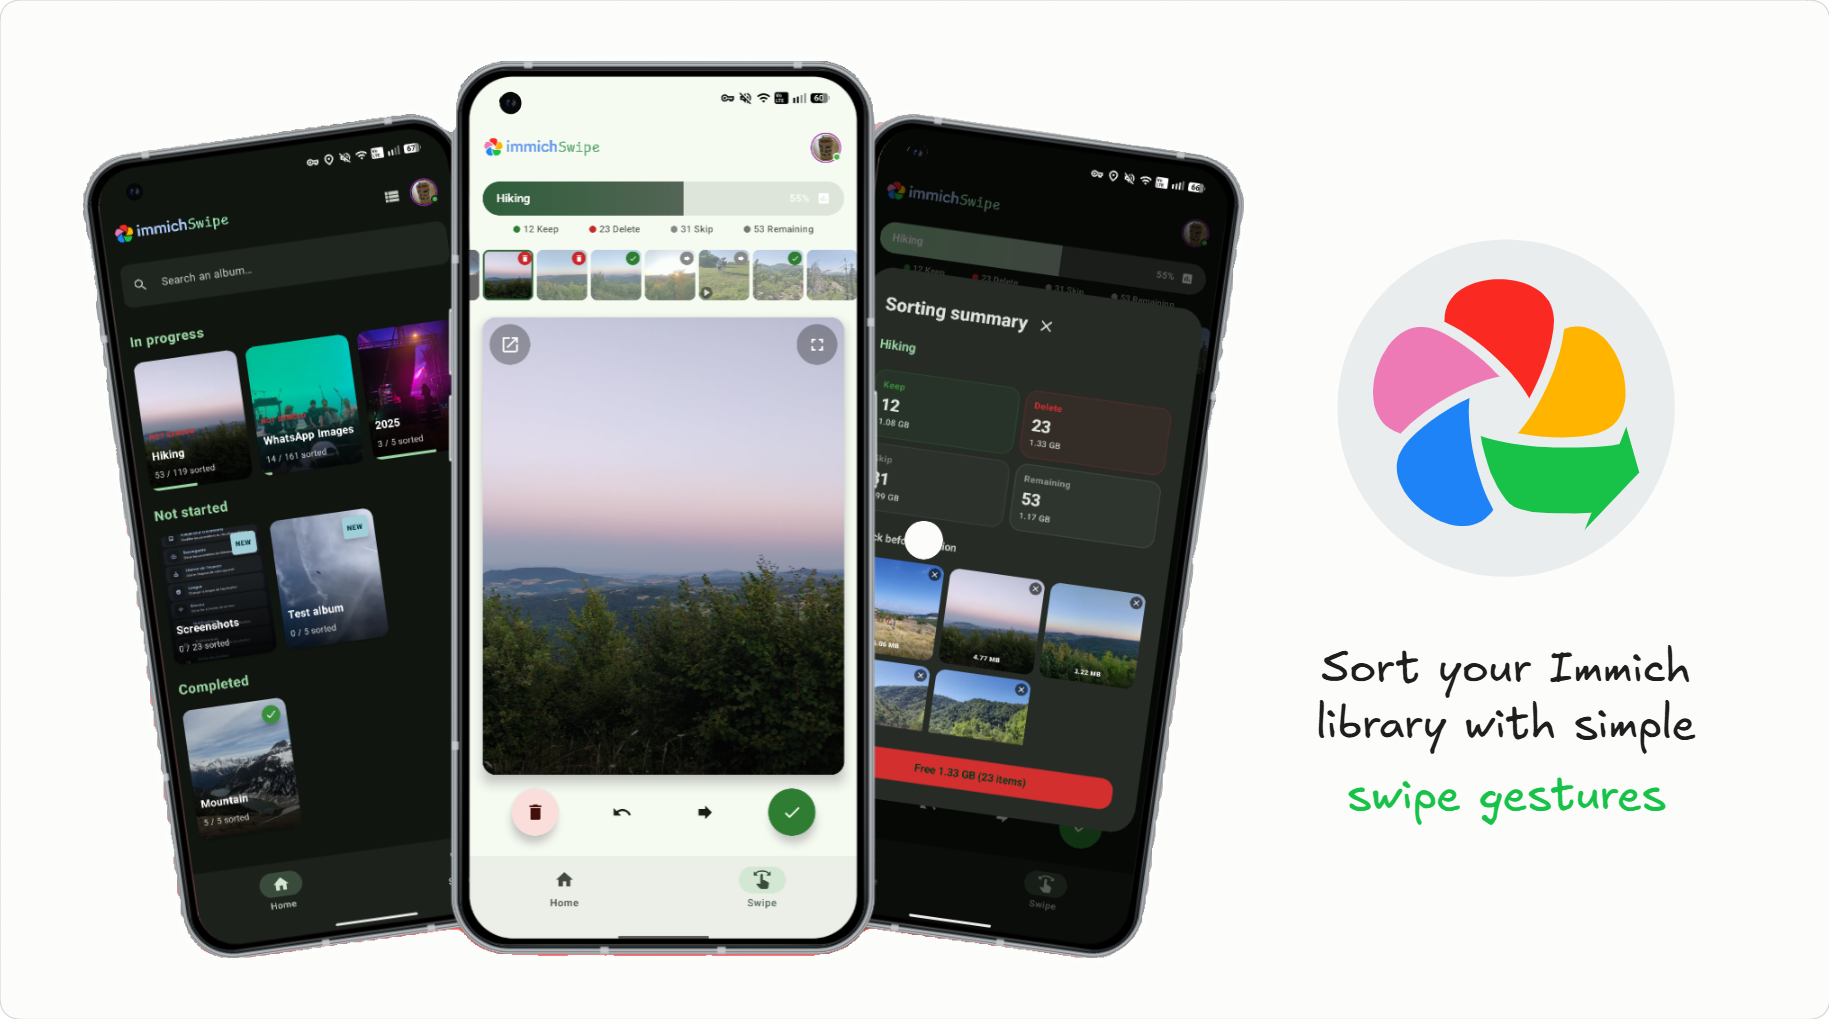
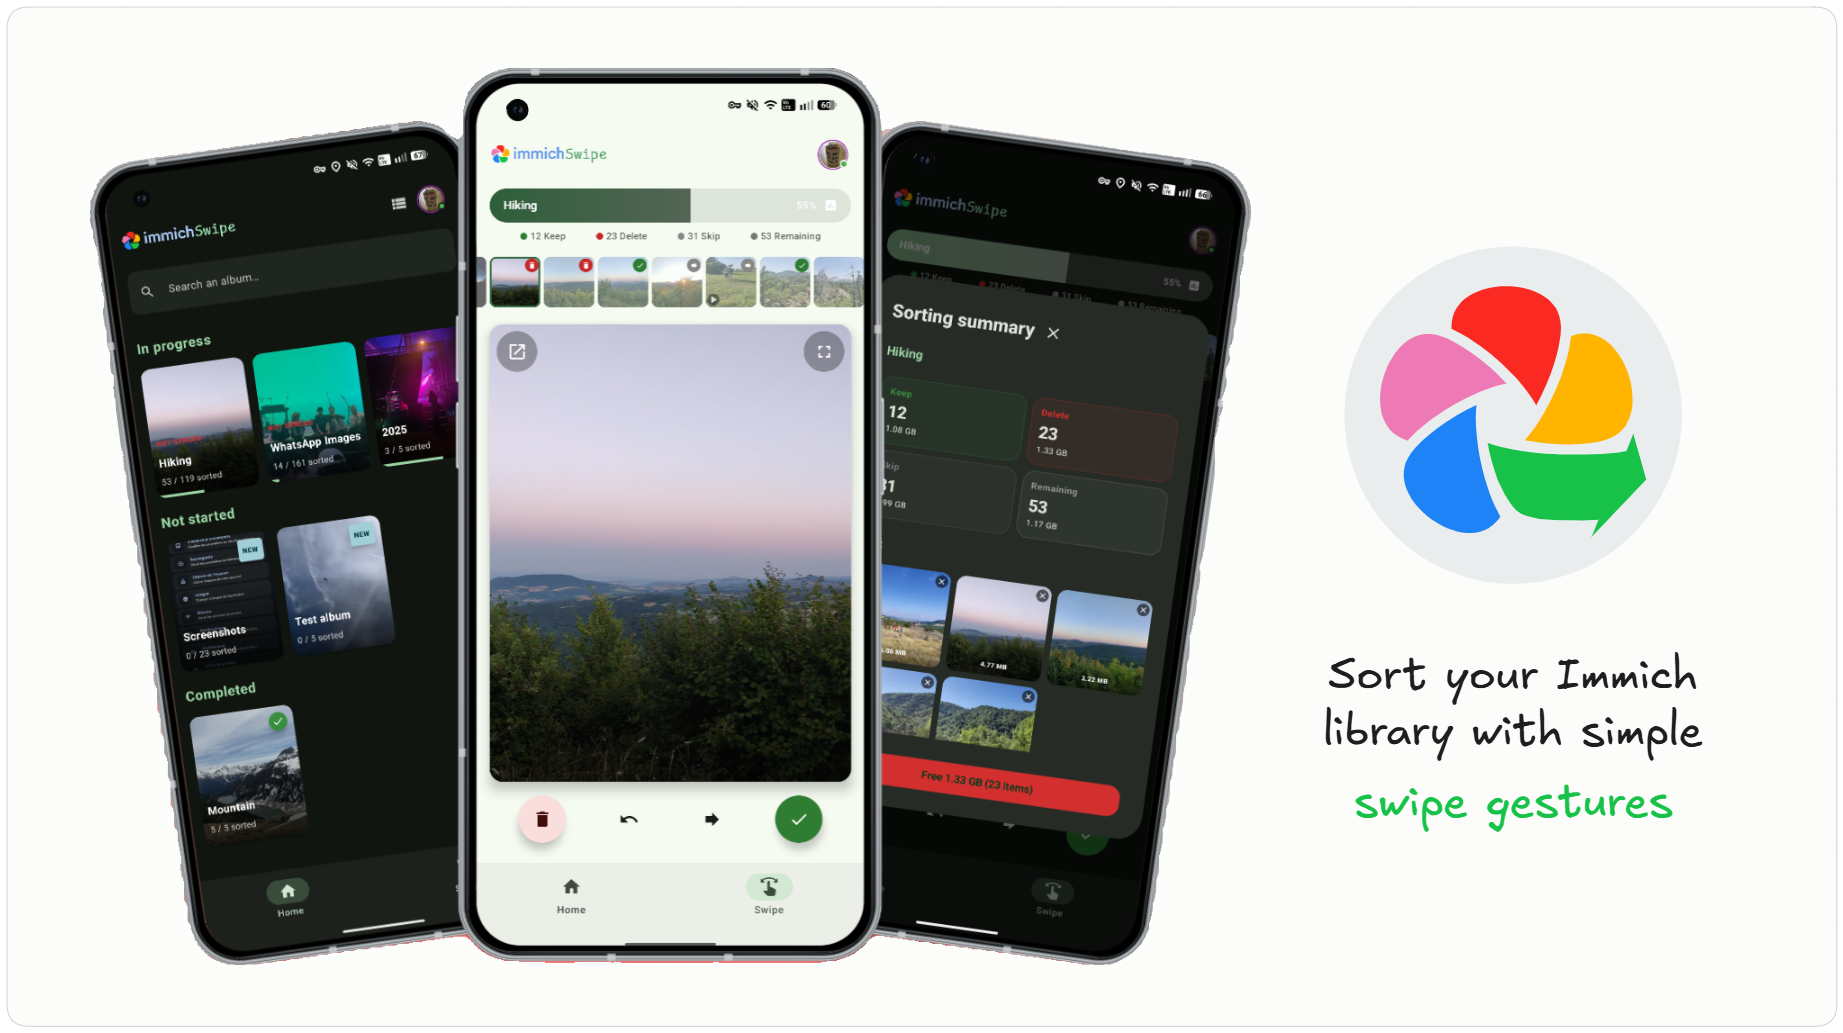
Mise à jour des READMEs concernant les permission API (+ lien vers Sponge)

diff --git a/README.fr.md b/README.fr.md
@@ -9,7 +9,7 @@
 
 Immich Swipe est une application Android open-source conçue pour faciliter le tri de vos photos et vidéos hébergées sur votre serveur [Immich](https://immich.app/).
 
-Inspirée par l'application [Sponge](https://get-sponge.com/) (concept similaire pour les fichiers locaux), elle vous permet de trier rapidement vos médias par de simples gestes de balayage (swipe), avec une interface fluide et moderne.
+Inspirée par l'application [Sponge](https://play.google.com/store/apps/details?id=com.prismtree.sponge&pcampaignid=web_share) (concept similaire pour les fichiers locaux), elle vous permet de trier rapidement vos médias par de simples gestes de balayage (swipe), avec une interface fluide et moderne.
 
 > **Note** : Ce projet est né d'un besoin personnel et a été développé avec l'aide de l'IA. Bien que je ne sois pas développeur de métier, j'accorde une grande importance à la stabilité et à l'expérience utilisateur.
 >
@@ -44,13 +44,14 @@ Inspirée par l'application [Sponge](https://get-sponge.com/) (concept similaire
 ## ⚙️ Configuration
 
 1. Entrez l'URL de votre serveur Immich (ex: `https://immich.votre-domaine.fr`).
-2. Entrez votre clé API Immich.
+2. Entrez votre clé API Immich (si vous n'en avez pas, [créez en une](https://my.immich.app/user-settings?isOpen=api-keys))
    - **Permissions nécessaires** : Pour le bon fonctionnement de l'application, votre clé API doit avoir les permissions suivantes :
      - `user.read`
      - `album.read`
      - `asset.read`
+     - `asset.view`
      - `asset.delete`
-   > **Serveur Immich v3+** : Pour une raison encore inexpliquée, l'utilisation de ces 4 permissions avec la v3 du serveur Immich rend la récupération des assets TRES lente, rendant l'application inutilisable. Alors qu'avec une clé possédant toutes les permissions, cela fonctionne parfaitement. L'app n'utilise pourtant que des endpoints qui ne requièrent aucune autre permission que les 4 ci-dessus...
+     - `userProfileImage.read` (Optionnel)
 3. Sélectionnez un album et commencez à trier !
 
 ## 📦 Installation

diff --git a/README.md b/README.md
@@ -9,7 +9,7 @@
 
 Immich Swipe is an open-source Android application designed to make sorting your photos and videos hosted on your [Immich](https://immich.app/) server easy and fun.
 
-Inspired by the [Sponge](https://get-sponge.com/) app (similar concept for local files), it allows you to quickly sort your media using simple swipe gestures, featuring a smooth and modern interface.
+Inspired by the [Sponge](https://play.google.com/store/apps/details?id=com.prismtree.sponge&pcampaignid=web_share) app (similar concept for local files), it allows you to quickly sort your media using simple swipe gestures, featuring a smooth and modern interface.
 
 > **Note**: This project started as a personal need and was developed with the help of AI. Although I am not a developer by trade, I place great importance on stability and user experience.
 >
@@ -44,13 +44,14 @@ Inspired by the [Sponge](https://get-sponge.com/) app (similar concept for local
 ## ⚙️ Configuration
 
 1. Enter your Immich server URL (e.g., `https://immich.your-domain.com`).
-2. Enter your Immich API Key.
+2. Enter your Immich API Key (if you don't have it already, [create one here](https://my.immich.app/user-settings?isOpen=api-keys))
    - **Required Permissions**: For the app to function correctly, your API key must have the following permissions:
      - `user.read`
      - `album.read`
      - `asset.read`
+     - `asset.view`
      - `asset.delete`
-   > **Immich server v3+** : For some reason that I'm still trying to understand, allowing only those 4 permissions with Immich Server v3 makes the assets retrieval VERY slow, making the app unusable. Meanwhile, if you allow all permissions it works like a charm. The app only uses API endpoints that require those 4 permissions so... I do not understand yet.
+     - `userProfileImage.read` (Optional)
 3. Select an album and start sorting!
 
 ## 📦 Installation